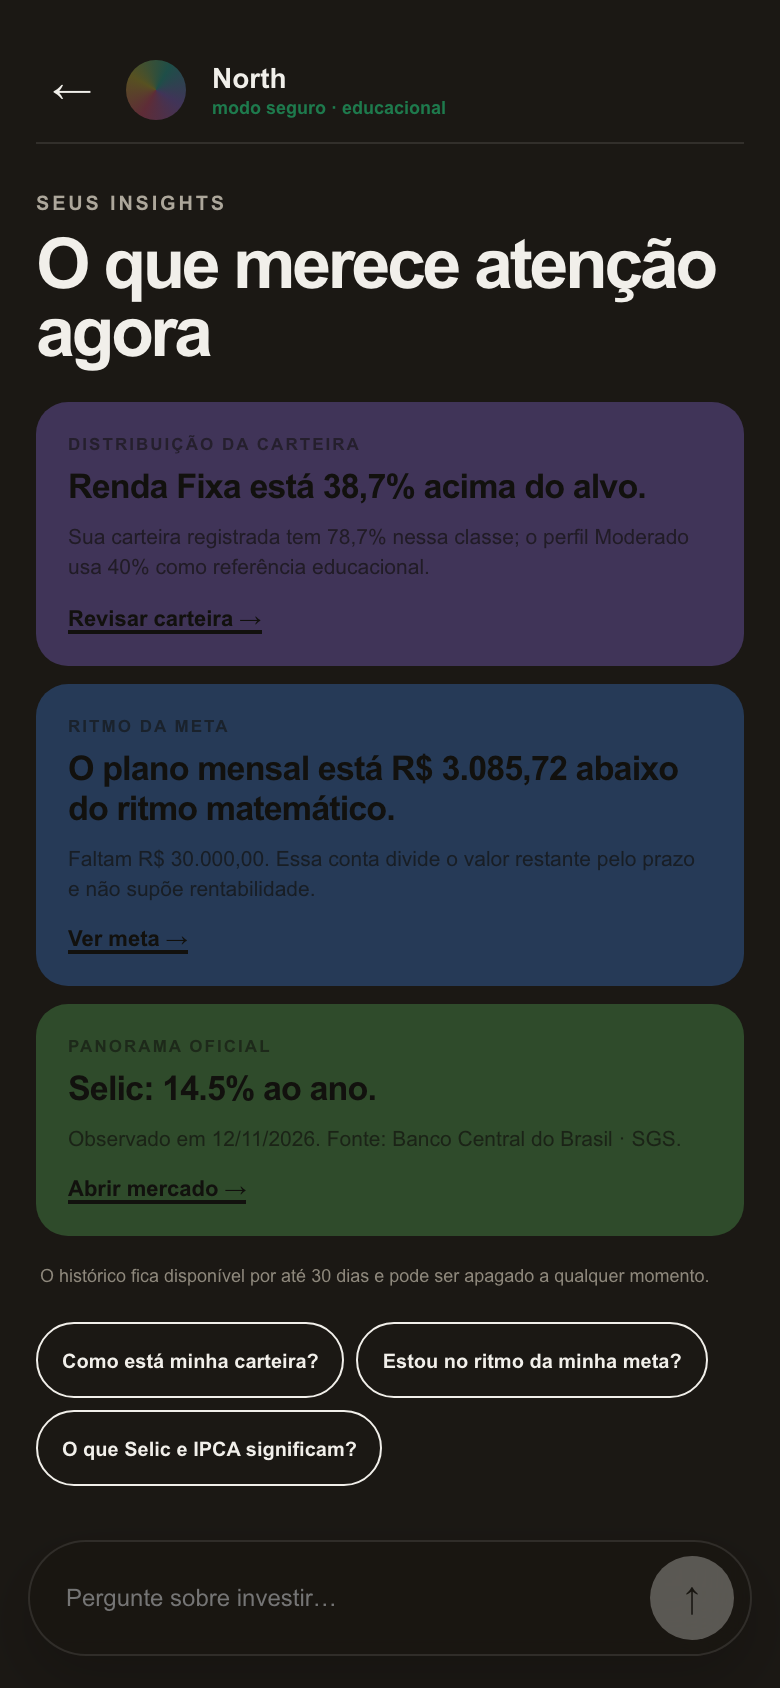
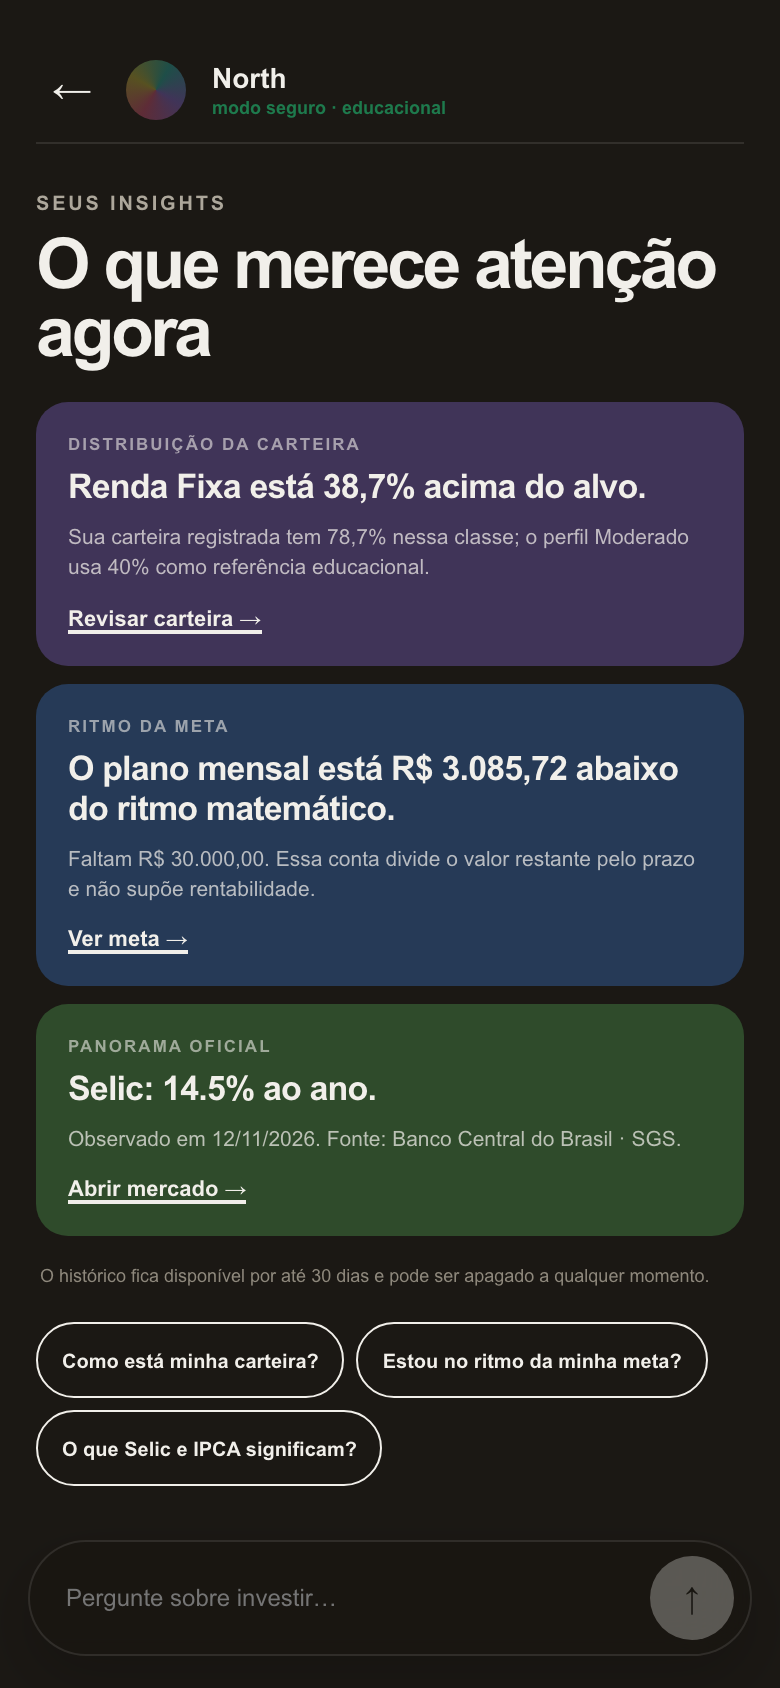
fix(a11y): use the theme ink token for text on tinted cards in dark mode
Insight cards, the allocation rows and the product hero hard-coded a dark
text color over dark tinted backgrounds, which made labels almost invisible
in the dark theme. Light theme is unchanged because --ink is the same color.

diff --git a/src/app/globals.css b/src/app/globals.css
@@ -105,7 +105,7 @@ button, a { -webkit-tap-highlight-color: transparent; }
 .investment-goal { margin-top:14px; padding:12px 14px; display:flex; justify-content:space-between; align-items:center; gap:12px; border-radius:12px; background:var(--intl); }
 .investment-goal > span, .investment-goal > strong { min-width:0; display:flex; flex-direction:column; gap:3px; }
 .investment-goal > strong { text-align:right; font-size:13px; }
-.investment-goal small { color:rgba(18,17,14,.55); font-size:8.5px; font-weight:750; letter-spacing:.1em; text-transform:uppercase; }
+.investment-goal small { color:color-mix(in srgb, var(--ink) 62%, transparent); font-size:8.5px; font-weight:750; letter-spacing:.1em; text-transform:uppercase; }
 .investment-goal select { max-width:220px; padding:0; border:0; outline:0; background:transparent; font-size:14px; font-weight:850; }
 .investment-amount { min-height:66px; margin-top:18px; padding-bottom:8px; display:flex; align-items:flex-end; gap:7px; border-bottom:2px solid var(--ink); }
 .investment-amount span { padding-bottom:4px; color:var(--muted2); font-size:16px; font-weight:800; }
@@ -125,10 +125,10 @@ button, a { -webkit-tap-highlight-color: transparent; }
 .investment-allocation-row > strong { font-size:15px; }
 .investment-allocation-row > span { min-width:0; display:flex; flex-direction:column; gap:2px; }
 .investment-allocation-row > span b { overflow:hidden; font-size:12px; text-overflow:ellipsis; white-space:nowrap; }
-.investment-allocation-row > span small { overflow:hidden; color:rgba(18,17,14,.55); font-size:8.5px; text-overflow:ellipsis; white-space:nowrap; }
+.investment-allocation-row > span small { overflow:hidden; color:color-mix(in srgb, var(--ink) 62%, transparent); font-size:8.5px; text-overflow:ellipsis; white-space:nowrap; }
 .investment-allocation-row > b { font-size:11.5px; white-space:nowrap; }
 .investment-allocation-row > label { display:flex; align-items:center; font-weight:900; }
-.investment-allocation-row > label input { width:35px; padding:5px 2px; border:1px solid rgba(18,17,14,.35); border-radius:6px; background:rgba(255,255,255,.32); text-align:center; font-size:13px; font-weight:900; }
+.investment-allocation-row > label input { width:35px; padding:5px 2px; border:1px solid color-mix(in srgb, var(--ink) 35%, transparent); border-radius:6px; background:rgba(255,255,255,.32); text-align:center; font-size:13px; font-weight:900; }
 .investment-allocation-error { margin:8px 2px 0; }
 .investment-assumptions { margin-top:16px; padding:15px; border:1.5px solid var(--ink); border-radius:8px; }
 .investment-assumptions > div:first-child { display:flex; justify-content:space-between; align-items:center; }
@@ -166,10 +166,10 @@ button, a { -webkit-tap-highlight-color: transparent; }
 .assistant-intro > h1 { margin:6px 0 0; font-size:clamp(30px, 9vw, 42px); line-height:.97; letter-spacing:-.05em; }
 .assistant-insights { margin-top:18px; display:flex; flex-direction:column; gap:9px; }
 .assistant-insights article { padding:16px; border-radius:16px; }
-.assistant-insights article > p { margin:0; color:rgba(18,17,14,.58); font-size:8.5px; font-weight:800; letter-spacing:.12em; text-transform:uppercase; }
-.assistant-insights article h2 { margin:7px 0 0; color:#12110e; font-size:17px; line-height:1.18; letter-spacing:-.025em; }
-.assistant-insights article > span { display:block; margin-top:7px; color:rgba(18,17,14,.67); font-size:10.5px; line-height:1.45; }
-.assistant-insights article > a { display:inline-block; margin-top:11px; color:#12110e; border-bottom:2px solid #12110e; font-size:11px; font-weight:850; }
+.assistant-insights article > p { margin:0; color:color-mix(in srgb, var(--ink) 58%, transparent); font-size:8.5px; font-weight:800; letter-spacing:.12em; text-transform:uppercase; }
+.assistant-insights article h2 { margin:7px 0 0; color:var(--ink); font-size:17px; line-height:1.18; letter-spacing:-.025em; }
+.assistant-insights article > span { display:block; margin-top:7px; color:color-mix(in srgb, var(--ink) 72%, transparent); font-size:10.5px; line-height:1.45; }
+.assistant-insights article > a { display:inline-block; margin-top:11px; color:var(--ink); border-bottom:2px solid var(--ink); font-size:11px; font-weight:850; }
 .assistant-retention { margin:14px 2px 0; color:var(--muted2); font-size:9px; line-height:1.45; }
 .assistant-messages { padding:22px 0 8px; display:flex; flex-direction:column; gap:12px; }
 .assistant-user-message { max-width:78%; margin:0; padding:11px 14px; align-self:flex-end; border-radius:16px 16px 4px 16px; color:var(--oncta); background:var(--ink); font-size:12px; line-height:1.45; }
@@ -222,7 +222,7 @@ button, a { -webkit-tap-highlight-color: transparent; }
 .detail-header > a { width:44px; height:44px; display:grid; place-items:center; font-size:20px; }
 .detail-header strong { font-size:13px; }
 .product-hero { margin-top:14px; padding:19px; border-radius:18px; }
-.product-hero p { margin:0; color:rgba(18,17,14,.58); font-size:9px; font-weight:800; letter-spacing:.11em; text-transform:uppercase; }
+.product-hero p { margin:0; color:color-mix(in srgb, var(--ink) 62%, transparent); font-size:9px; font-weight:800; letter-spacing:.11em; text-transform:uppercase; }
 .product-hero h1 { margin:8px 0 0; font-size:27px; line-height:1.04; letter-spacing:-.04em; }
 .product-hero > strong { display:block; margin-top:12px; font-size:19px; line-height:1.2; }
 .product-stale { margin:12px 0 0; padding:12px; border-radius:10px; color:#7a3f31; background:#f2d3b6; font-size:10px; line-height:1.45; }

diff --git a/README.md b/README.md
@@ -110,7 +110,7 @@ docs/           arquitetura, segurança, plano e runbooks
 
 ### Status e próximos passos
 
-O app roda de ponta a ponta com o stack local. A coleta diária de mercado depende de fontes e chaves externas, então localmente você vê o estado "aguardando primeira coleta". Próximos passos: revisar o contraste do tema escuro na tela do Assistente, adicionar testes de ponta a ponta (Playwright) para as jornadas críticas e publicar uma demonstração com dados fictícios.
+O app roda de ponta a ponta com o stack local. A coleta diária de mercado depende de fontes e chaves externas, então localmente você vê o estado "aguardando primeira coleta". Próximos passos: adicionar testes de ponta a ponta (Playwright) para as jornadas críticas e publicar uma demonstração com dados fictícios.
 
 ---
 
@@ -176,7 +176,7 @@ supabase test db  # database tests and cross-account isolation (RLS)
 
 ### Status and next steps
 
-The app runs end to end on the local stack. The daily market ingestion needs external sources and keys, so locally you will see the "waiting for first collection" state. Next: review dark-theme contrast on the assistant screen, add end-to-end tests (Playwright) for the critical journeys, and publish a demo with fictional data.
+The app runs end to end on the local stack. The daily market ingestion needs external sources and keys, so locally you will see the "waiting for first collection" state. Next: add end-to-end tests (Playwright) for the critical journeys and publish a demo with fictional data.
 
 ---
 
